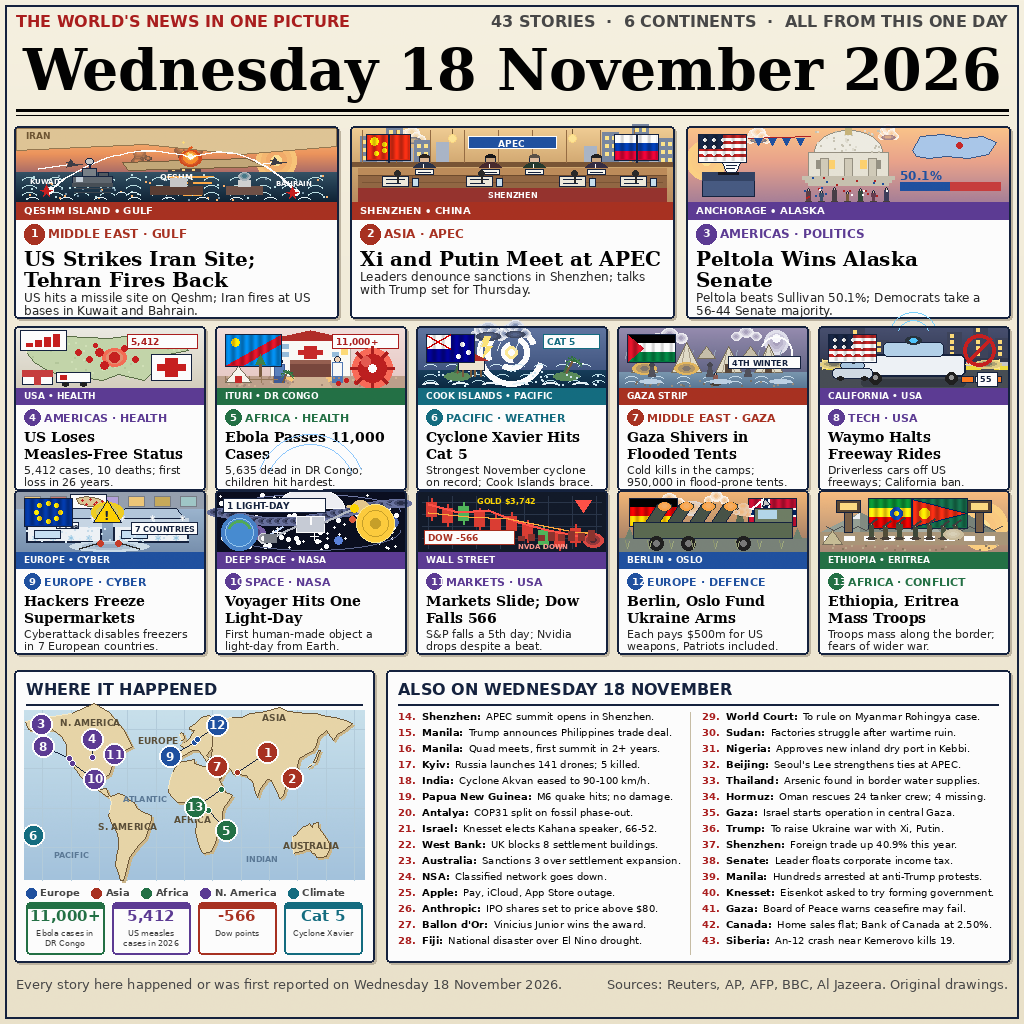
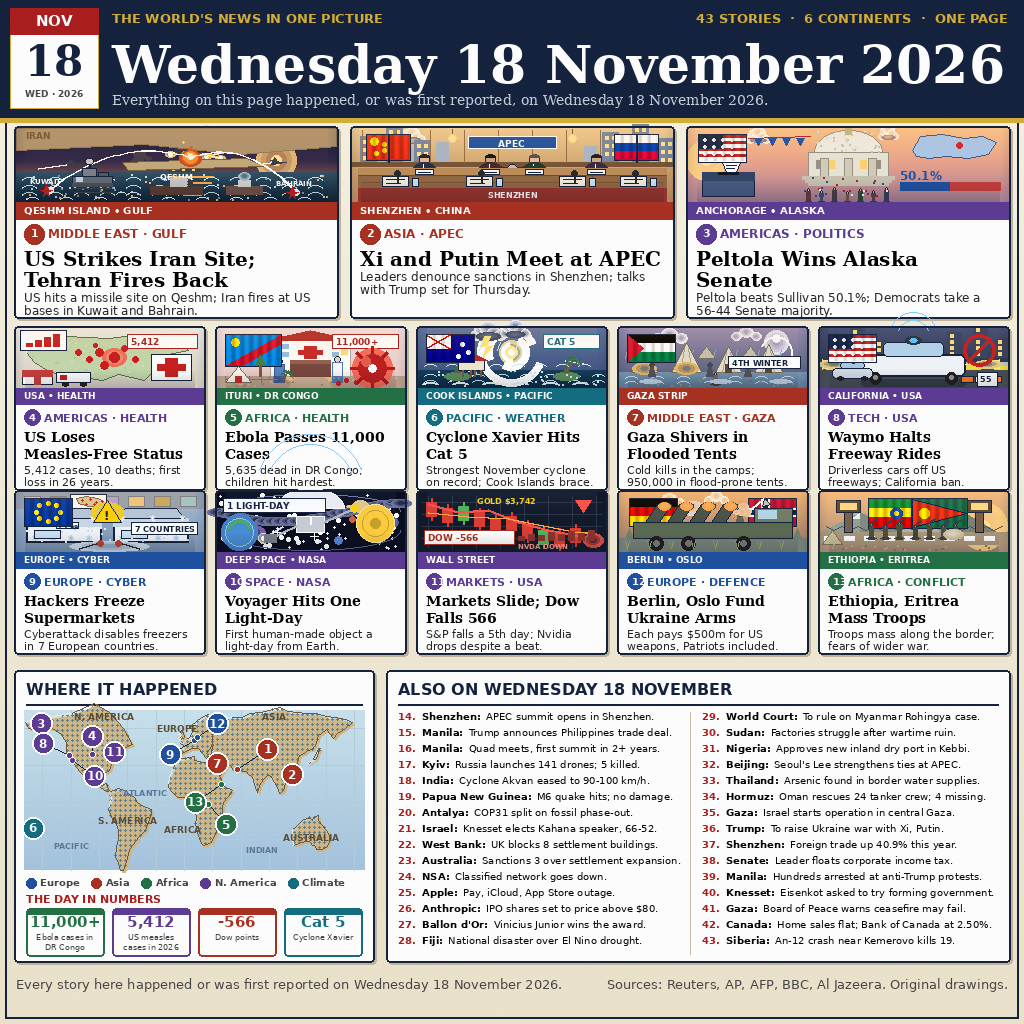
Revise: cinematic like reference — navy header with date box, night Gulf missile trails, APEC handshake, cinematic grade on all panels, dotted world map, THE DAY IN NUMBERS strip

diff --git a/tools/generate-image.py b/tools/generate-image.py
@@ -116,6 +116,40 @@ def mgrad(x, y, w, h, stops):
         d.line([(x, y + i), (x + w, y + i)], fill=col)
 
 
+def cinema_grade(x, y, w, h, warm=(255, 176, 92), strength=26):
+    """Cinematic grade, clipped to one picture: a warm golden wash
+    falling from the top, a dark foreground shade at the bottom, and
+    a soft vignette at the edges. Alpha only, drawn on an overlay and
+    pasted in, so nothing spills outside the rect and text drawn later
+    stays crisp."""
+    ov = Image.new("RGBA", (W, H), (0, 0, 0, 0))
+    od = ImageDraw.Draw(ov)
+    half = max(1, h // 2)
+    for i in range(half):
+        a = int(strength * (1 - i / half))
+        od.line([(x, y + i), (x + w, y + i)], fill=warm + (a,), width=1)
+    bot = max(1, h // 3)
+    for i in range(bot):
+        a = int(44 * (i / bot))
+        od.line([(x, y + h - bot + i), (x + w, y + h - bot + i)],
+                fill=(8, 14, 28) + (a,), width=1)
+    edge = 9
+    for i in range(edge):
+        a = int(20 * (1 - i / edge))
+        od.line([(x + i, y), (x + i, y + h)], fill=(8, 14, 28) + (a,), width=1)
+        od.line([(x + w - i, y), (x + w - i, y + h)], fill=(8, 14, 28) + (a,), width=1)
+    img.paste(ov, (0, 0), ov)
+
+
+def missile_trail(x0, y0, x1, y1, sky):
+    """A bright diagonal missile trail with a glowing head, like the
+    night-sky shots in the reference: white-hot core, gold halo."""
+    soft_disc(x1, y1, 5, 3, (255, 220, 140), sky, steps=3)
+    d.line([(x0, y0), (x1, y1)], fill=(255, 190, 90), width=3)
+    d.line([(x0, y0), (x1, y1)], fill=(255, 255, 230), width=1)
+    d.ellipse([x1 - 2, y1 - 2, x1 + 2, y1 + 2], fill=(255, 255, 240))
+
+
 def speckle(x, y, w, h, n, seed, cols, r=1):
     """Seeded texture flecks clipped to a rect (deterministic)."""
     rr = random.Random(seed)
@@ -295,36 +329,52 @@ def flag(kind, x, y, w, h):
 vgrad(0, 0, W, H, (248, 243, 226), (236, 227, 203))
 d.rectangle([5, 5, W - 6, H - 6], outline=NAVY, width=2)
 
-# ---------- masthead ----------
-d.text((16, 12), "THE WORLD'S NEWS IN ONE PICTURE", font=font(SANSB, 16), fill=RED)
-right = "43 STORIES  ·  6 CONTINENTS  ·  ALL FROM THIS ONE DAY"
-d.text((W - 16 - d.textlength(right, font=font(SANSB, 16)), 12), right,
-       font=font(SANSB, 16), fill=GREY)
+# ---------- masthead: navy band, date box, white serif date ----------
+d.rectangle([0, 0, W, 118], fill=NAVY)
+d.rectangle([0, 118, W, 122], fill=(212, 175, 55))
+# date box, left: red NOV, big 18, WED 2026
+d.rectangle([10, 8, 98, 108], fill=(255, 255, 255), outline=(212, 175, 55), width=1)
+d.rectangle([10, 8, 98, 34], fill=RED)
+d.text((54 - d.textlength("NOV", font=font(SANSB, 15)) / 2, 12), "NOV",
+       font=font(SANSB, 15), fill=(255, 255, 255))
+d.text((54 - d.textlength("18", font=font(SERIFB, 42)) / 2, 36), "18",
+       font=font(SERIFB, 42), fill=NAVY)
+d.text((54 - d.textlength("WED · 2026", font=font(SANSB, 9)) / 2, 88), "WED · 2026",
+       font=font(SANSB, 9), fill=GREY)
+d.text((112, 10), "THE WORLD'S NEWS IN ONE PICTURE", font=font(SANSB, 13),
+       fill=(212, 175, 55))
+_right = "43 STORIES  ·  6 CONTINENTS  ·  ONE PAGE"
+d.text((W - 16 - d.textlength(_right, font=font(SANSB, 13)), 10), _right,
+       font=font(SANSB, 13), fill=(212, 175, 55))
 # giant date, auto-fit so the longer Wednesday date still fits
 _date = "Wednesday 18 November 2026"
-_dsize = 60
-while d.textlength(_date, font=font(SERIFB, _dsize)) > W - 32 and _dsize > 40:
+_dsize = 54
+while d.textlength(_date, font=font(SERIFB, _dsize)) > W - 112 - 16 and _dsize > 40:
     _dsize -= 1
-_tw = d.textlength(_date, font=font(SERIFB, _dsize))
-d.text(((W - _tw) / 2, 36), _date, font=font(SERIFB, _dsize), fill=INK)
-d.line([16, 110, W - 16, 110], fill=INK, width=3)
-d.line([16, 115, W - 16, 115], fill=INK, width=1)
+d.text((112, 34), _date, font=font(SERIFB, _dsize), fill=(255, 255, 255))
+_sub = "Everything on this page happened, or was first reported, on Wednesday 18 November 2026."
+d.text((112, 92), _sub, font=font(SERIF, 14), fill=(198, 206, 218))
 
 # ---------- pictograms: each fills its panel edge to edge ----------
 def pic(kind, x, y, w, h):
     if kind == "gulf":
-        # the Gulf at dusk: multi-stop sky, textured clouds, a missile
-        # site on Qeshm flashing, US base markers, a tanker
-        mgrad(x, y, w, h, [(0.0, (255, 198, 128)), (0.35, (238, 148, 92)),
-                           (0.6, (172, 108, 104)), (1.0, (120, 84, 96))])
-        sun_glow(x + w - 60, y + 32, 5, (238, 148, 92))
-        cloud_puff(x + 50, y + 9, 10, (238, 148, 92))
-        cloud_puff(x + w - 130, y + 6, 8, (238, 148, 92), dark=(140, 110, 120))
+        # the Gulf at night: dark sky above, a gold horizon, missile
+        # trails streaking diagonally down to the strike on Qeshm
+        mgrad(x, y, w, h, [(0.0, (14, 18, 42)), (0.45, (52, 42, 74)),
+                           (0.7, (140, 82, 66)), (1.0, (214, 132, 74))])
+        sun_glow(x + w - 60, y + 32, 5, (140, 82, 66))
+        cloud_puff(x + 50, y + 9, 10, (52, 42, 74))
+        cloud_puff(x + w - 130, y + 6, 8, (52, 42, 74), dark=(140, 110, 120))
         # a distant ship silhouette on the horizon, lights on
         d.rectangle([x + w - 168, y + 38, x + w - 136, y + 44], fill=(70, 60, 66))
         d.rectangle([x + w - 158, y + 32, x + w - 146, y + 38], fill=(70, 60, 66))
         for lx_ in (x + w - 164, x + w - 154, x + w - 144):
             d.rectangle([lx_, y + 40, lx_ + 2, y + 42], fill=(255, 210, 120))
+        # diagonal missile trails streaking across the night sky,
+        # like the reference's Gulf shot: bright heads, gold tails
+        missile_trail(x + w - 30, y + 4, x + w // 2 + 30, y + 28, (52, 42, 74))
+        missile_trail(x + w - 120, y + 2, x + w // 2 - 6, y + 26, (52, 42, 74))
+        missile_trail(x + w - 210, y + 6, x + w // 2 + 44, y + 30, (52, 42, 74))
         # fighter jets with contrails over the open water
         for jx, jy in [(x + 56, y + 34), (x + 260, y + 32)]:
             d.line([(jx - 34, jy + 6), (jx - 6, jy + 2)], fill=(255, 255, 255), width=2)
@@ -333,9 +383,9 @@ def pic(kind, x, y, w, h):
             d.polygon([(jx - 2, jy - 3), (jx + 2, jy + 2), (jx - 4, jy + 3)], fill=(60, 60, 70))
         # irregular smoke plumes rising from the strike on Qeshm,
         # with hot ash drifting up
-        smoke_plume(x + w // 2 + 14, y + 30, 9, (48, 42, 40), (238, 148, 92), 11, n=8)
-        smoke_plume(x + w // 2 - 34, y + 34, 6, (70, 62, 58), (238, 148, 92), 23, n=5)
-        embers(x + w // 2 + 14, y + 28, 8, 7, 31, (238, 148, 92))
+        smoke_plume(x + w // 2 + 14, y + 30, 9, (48, 42, 40), (70, 58, 80), 11, n=8)
+        smoke_plume(x + w // 2 - 34, y + 34, 6, (70, 62, 58), (70, 58, 80), 23, n=5)
+        embers(x + w // 2 + 14, y + 28, 8, 7, 31, (70, 58, 80))
         # radar tower on the Iranian coast, right of the sun glow
         d.rectangle([x + w - 78, y + 6, x + w - 74, y + 22], fill=(90, 85, 80))
         d.ellipse([x + w - 83, y + 2, x + w - 69, y + 10], fill=(200, 200, 200),
@@ -354,9 +404,9 @@ def pic(kind, x, y, w, h):
         for wy in (y + h - 22, y + h - 14, y + h - 7):
             for wx in range(x + 6, x + w - 12, 26):
                 d.arc([wx, wy - 3, wx + 14, wy + 3], 180, 360, fill=(190, 225, 230), width=1)
-        # Iran: sandy coast along the top edge
+        # Iran: dark sandy coast along the top edge, at night
         d.polygon([(x, y), (x + w, y), (x + w, y + 18), (x + w * 0.7, y + 26),
-                   (x + w * 0.4, y + 16), (x, y + 22)], fill=(224, 198, 150),
+                   (x + w * 0.4, y + 16), (x, y + 22)], fill=(176, 146, 108),
                   outline=(150, 120, 80))
         d.text((x + 10, y + 2), "IRAN", font=font(SANSB, 9), fill=(110, 85, 50))
         # Qeshm Island: a long low island mid-frame, with the strike flash
@@ -461,6 +511,13 @@ def pic(kind, x, y, w, h):
             d.pieslice([hx_ - 5, y + 26, hx_ + 5, y + 32], 180, 360, fill=hair)
             d.pieslice([hx_ - 11, y + 34, hx_ + 11, y + 48], 180, 360, fill=suit)
             d.line([(hx_ - 1, y + 36), (hx_ - 1, y + 42)], fill=(255, 255, 255), width=1)
+        # the two central leaders rise and shake hands across the
+        # table, like the airport-welcome shot in the reference:
+        # arms reaching to the middle, hands clasped
+        d.line([(x + 138, y + 38), (x + 160, y + 40)], fill=(70, 40, 44), width=3)
+        d.line([(x + 182, y + 38), (x + 160, y + 40)], fill=(36, 56, 44), width=3)
+        d.ellipse([x + 155, y + 36, x + 165, y + 44], fill=(222, 184, 150),
+                  outline=NAVY, width=1)
         # the long table: wood top, dark front, red carpet below
         d.rectangle([x + 6, y + 40, x + w - 6, y + h - 14], fill=(146, 102, 66))
         d.rectangle([x + 6, y + 40, x + w - 6, y + 46], fill=(190, 140, 90))
@@ -672,10 +729,12 @@ def pic(kind, x, y, w, h):
         for wy in (y + h - 12, y + h - 6):
             for wx in range(x + 6, x + w - 12, 24):
                 d.arc([wx, wy - 2, wx + 12, wy + 2], 180, 360, fill=(190, 225, 235), width=1)
-        # spiral arms: concentric arcs shrinking toward the eye
+        # spiral arms: thick concentric arcs shrinking toward the eye,
+        # seen from above like the reference's cyclone shot
         cx, cy = x + w // 2, y + h // 2 - 6
+        soft_disc(cx, cy, 12, 12, (255, 240, 170), (52, 74, 118), steps=3)
         for rr, a0, a1 in [(34, 20, 200), (26, 160, 340), (18, 300, 120), (10, 80, 260)]:
-            d.arc([cx - rr, cy - rr, cx + rr, cy + rr], a0, a1, fill=(255, 255, 255), width=6)
+            d.arc([cx - rr, cy - rr, cx + rr, cy + rr], a0, a1, fill=(255, 255, 255), width=8)
         d.ellipse([cx - 6, cy - 6, cx + 6, cy + 6], fill=(255, 235, 150))
         d.ellipse([cx - 3, cy - 3, cx + 3, cy + 3], fill=(255, 255, 255))
         # wind streaks at the edges
@@ -1152,6 +1211,12 @@ def draw_panel(x, y, w, h, p, large):
     d.rounded_rectangle([x + 2, y + 2, x + w + 2, y + h + 2], radius=4, fill=(190, 180, 160))
     d.rounded_rectangle([x, y, x + w, y + h], radius=4, fill=(255, 255, 255), outline=NAVY, width=2)
     pic(kind, x + 2, y + 2, w - 4, pic_h)
+    # cinematic grade over the picture only: warm golden light for
+    # day scenes, cool moonlight for the night boards
+    if kind in ("voyager", "markets", "waymo"):
+        cinema_grade(x + 2, y + 2, w - 4, pic_h, warm=(140, 170, 255), strength=14)
+    else:
+        cinema_grade(x + 2, y + 2, w - 4, pic_h)
     sy = y + 2 + pic_h
     d.rectangle([x + 2, sy, x + w - 2, sy + strip_h], fill=col)
     d.text((x + 10, sy + 2), cap, font=font(SANSB, 10 if large else 9), fill=(255, 255, 255))
@@ -1191,7 +1256,7 @@ d.rounded_rectangle([mx + 2, by + 2, mx + mw + 2, by + mh + 2], radius=4, fill=(
 d.rounded_rectangle([mx, by, mx + mw, by + mh], radius=4, fill=(255, 255, 255), outline=NAVY, width=2)
 d.text((mx + 12, by + 10), "WHERE IT HAPPENED", font=font(SANSB, 16), fill=NAVY)
 d.line([mx + 12, by + 34, mx + mw - 12, by + 34], fill=NAVY, width=2)
-mapx, mapy, mapw, maph = mx + 10, by + 40, mw - 20, 170
+mapx, mapy, mapw, maph = mx + 10, by + 40, mw - 20, 160
 vgrad(mapx, mapy, mapw, maph, (202, 226, 238), (164, 196, 222))
 
 
@@ -1203,7 +1268,19 @@ def ll(lon, lat):
 def land(poly, label=None, lab_lon=None, lab_lat=None):
     pts = [ll(lo, la) for lo, la in poly]
     d.polygon([(px + 2, py + 2) for px, py in pts], fill=(206, 184, 138))
-    d.polygon(pts, fill=(233, 214, 168), outline=(110, 88, 55), width=1)
+    # dotted fill, like the reference's dot-matrix world map: a mask
+    # of the polygon, then a grid of small slate dots inside it
+    mask = Image.new("L", (W, H), 0)
+    md = ImageDraw.Draw(mask)
+    md.polygon(pts, fill=255)
+    mp = mask.load()
+    xs = [p[0] for p in pts]
+    ys = [p[1] for p in pts]
+    for gx in range(int(min(xs)) + 2, int(max(xs)), 5):
+        for gy in range(int(min(ys)) + 2, int(max(ys)), 5):
+            if 0 <= gx < W and 0 <= gy < H and mp[gx, gy]:
+                d.ellipse([gx - 1, gy - 1, gx + 1, gy + 1], fill=(96, 128, 138))
+    d.polygon(pts, outline=(110, 88, 55), width=1)
     d.line(pts[:3], fill=(248, 236, 200), width=1)
     if label:
         lx_, ly_ = ll(lab_lon, lab_lat)
@@ -1225,7 +1302,7 @@ LAND = [
       (-70, 42), (-75, 35), (-80, 26), (-90, 21), (-97, 16), (-92, 14), (-83, 9),
       (-79, 9), (-83, 15), (-90, 14), (-97, 26), (-105, 20), (-110, 24), (-120, 34),
       (-125, 40), (-125, 49), (-130, 55), (-140, 60), (-155, 58), (-165, 60)],
-     "N. AMERICA", -100, 66),
+     "N. AMERICA", -85, 70),
     ([(-79, 9), (-77, 4), (-80, -3), (-81, -6), (-77, -12), (-72, -18), (-70, -23),
       (-70, -30), (-72, -37), (-73, -44), (-70, -50), (-68, -55), (-65, -55), (-62, -48),
       (-58, -38), (-52, -32), (-48, -28), (-41, -23), (-35, -9), (-35, -6), (-44, -3),
@@ -1235,13 +1312,13 @@ LAND = [
       (8, 57), (10, 59), (5, 60), (5, 62), (12, 65), (18, 69), (25, 71), (30, 70),
       (35, 68), (40, 68), (45, 65), (48, 60), (45, 55), (40, 50), (38, 46), (32, 46),
       (28, 45), (23, 40), (26, 38), (23, 36), (19, 40), (15, 44), (12, 44), (8, 44),
-      (3, 42), (-9, 37)], "EUROPE", -28, 52),
+      (3, 42), (-9, 37)], "EUROPE", -8, 60),
     ([(-5, 50), (-3, 53), (-5, 56), (-3, 58), (-1, 57), (0, 53)], None, None, None),
     ([(-17, 15), (-16, 20), (-13, 27), (-10, 31), (-6, 35), (0, 36), (10, 37), (11, 34),
       (20, 32), (25, 32), (30, 31), (32, 31), (35, 28), (37, 22), (39, 18), (43, 12),
       (48, 11), (51, 10), (46, 5), (41, 0), (40, -5), (40, -10), (36, -18), (33, -26),
       (28, -33), (20, -35), (17, -32), (15, -27), (12, -18), (13, -12), (9, -1), (9, 4),
-      (-8, 4), (-13, 8), (-17, 12)], "AFRICA", 8, -8),
+      (-8, 4), (-13, 8), (-17, 12)], "AFRICA", -2, -22),
     ([(44, -16), (47, -15), (50, -16), (49, -20), (45, -25), (43, -22)], None, None, None),
     ([(30, 70), (40, 68), (50, 69), (60, 69), (70, 72), (80, 73), (90, 75), (100, 77),
       (110, 74), (120, 73), (130, 72), (140, 72), (150, 70), (160, 69), (170, 67),
@@ -1288,7 +1365,7 @@ for n, (lo, la, dx, dy) in PINS.items():
     nf = font(SANSB, 12)
     d.text((cx - d.textlength(str(n), font=nf) / 2, cy - 8), str(n), font=nf,
            fill=(255, 255, 255))
-ly = by + 216
+ly = by + 206
 lx_leg = mx + 12
 for col, label in [(BLUE, "Europe"), (CRIMSON, "Asia"), (GREEN, "Africa"),
                    (PURPLE, "N. America"), (TEAL, "Climate")]:
@@ -1297,17 +1374,18 @@ for col, label in [(BLUE, "Europe"), (CRIMSON, "Asia"), (GREEN, "Africa"),
     d.text((lx_leg, ly), label, font=font(SANSB, 10), fill=GREY)
     lx_leg += d.textlength(label, font=font(SANSB, 10)) + 12
 
-# stat strip: four key numbers of the day, each matching a figure
-# already shown in a panel above (no new facts here)
+# the day in numbers: four key figures of the day, each matching a
+# figure already shown in a panel above (no new facts here)
+d.text((mx + 12, by + 222), "THE DAY IN NUMBERS", font=font(SANSB, 11), fill=RED)
 STATS = [("11,000+", "Ebola cases in DR Congo", GREEN),
          ("5,412", "US measles cases in 2026", PURPLE),
          ("-566", "Dow points", CRIMSON),
          ("Cat 5", "Cyclone Xavier", TEAL)]
 sw = (mw - 24 - 3 * 8) // 4
-sy0 = by + 232
+sy0 = by + 238
 for i, (num, lab, col) in enumerate(STATS):
     bx0 = mx + 12 + i * (sw + 8)
-    d.rounded_rectangle([bx0, sy0, bx0 + sw, sy0 + 52], radius=4,
+    d.rounded_rectangle([bx0, sy0, bx0 + sw, sy0 + 48], radius=4,
                         fill=(255, 255, 255), outline=col, width=2)
     d.rectangle([bx0 + 2, sy0 + 2, bx0 + sw - 2, sy0 + 6], fill=col)
     nf = font(SANSB, 15)
@@ -1316,7 +1394,7 @@ for i, (num, lab, col) in enumerate(STATS):
     d.text((bx0 + (sw - d.textlength(num, font=nf)) / 2, sy0 + 5), num, font=nf, fill=col)
     lf = font(SANS, 8)
     for k, ln in enumerate(wrap(lab, lf, sw - 8)[:2]):
-        d.text((bx0 + (sw - d.textlength(ln, font=lf)) / 2, sy0 + 26 + k * 10), ln,
+        d.text((bx0 + (sw - d.textlength(ln, font=lf)) / 2, sy0 + 24 + k * 10), ln,
                font=lf, fill=(60, 60, 60))
 
 # also list (right)
